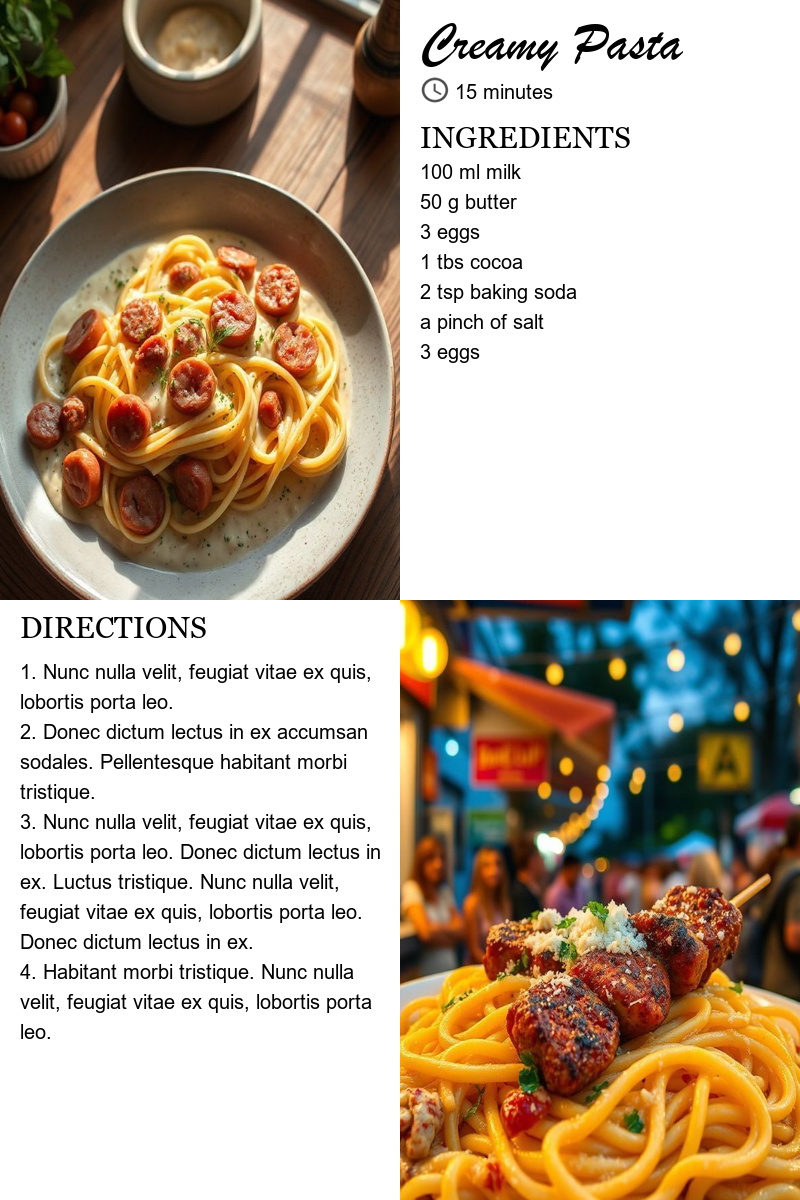
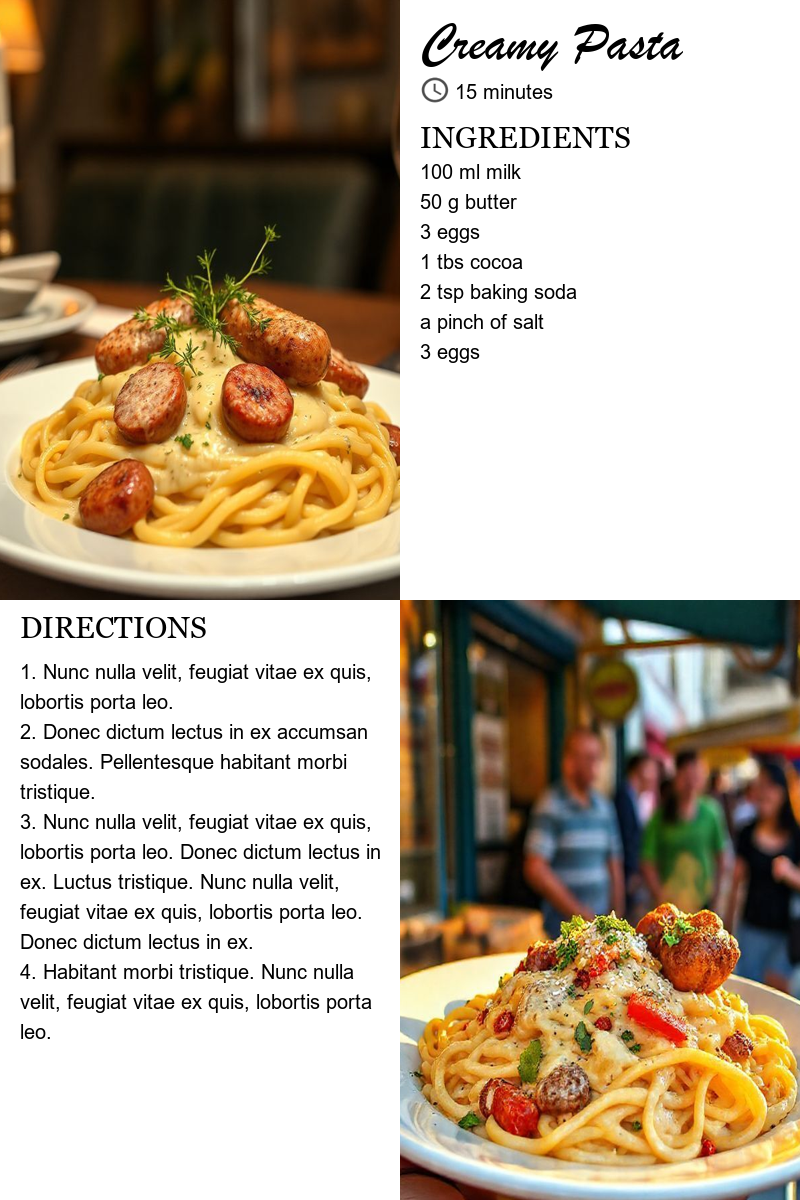
generating original images every time with a guid prompt, fixing template 2 for generated images

diff --git a/main.py b/main.py
@@ -11,6 +11,7 @@ from PIL import Image, ImageDraw, ImageFont
 import requests
 import time
 from datetime import datetime
+import uuid
 
 
 def generate_recipe_titles(writer, system_prompt):
@@ -148,13 +149,10 @@ def template_2_page_generator(image1_path, image2_path, image3_path, stopwatch_p
     margin = 10
 
     # Crop 40% from top and bottom
-    crop_height = int(image1.height * 0.32)
-    crop_width = int(image1.width * 0.1)
-    image3_crop_height = int(image3.height * 0.4)
-    image3_crop_width = int(image3.width * 0.15)
-    image1 = image1.crop((crop_width, crop_height, image1.width - crop_width, image1.height - crop_height))
-    image2 = image2.crop((crop_width, crop_height, image2.width - crop_width, image2.height - crop_height))
-    image3 = image3.crop((image3_crop_width, image3_crop_height, image3.width - image3_crop_width, image3.height - image3_crop_height))
+    # crop_height = int(image1.height * 0.2)
+    # crop_width = int(image1.width * 0.1)
+    image3_crop_height = int(image3.height * 0.8)
+    image3 = image3.crop((0, image3_crop_height, image3.width, image3.height))
     # Draw a line in the middle of the new image, leaving a bit of space from left and right
     line_margin = 65
     draw.line(
@@ -170,13 +168,13 @@ def template_2_page_generator(image1_path, image2_path, image3_path, stopwatch_p
     )
 
     # Resize images to take half of the page horizontally and vertically
-    image1 = image1.resize((image1.width // 2 - 2 * margin, image1.height // 2))
-    image2 = image2.resize((image2.width // 2 - 2 * margin, image2.height // 2))
-    image3 = image3.resize((image3.width // 2 + 80, image3.height // 2))
+    image1 = image1.resize((width // 2 - 2 * margin, height // 2))
+    image2 = image2.resize((width // 2 - 2 * margin, height // 2))
+    image3 = image3.resize((image3.width + 155, image3.height))
 
     # Paste images with margins
-    new_image.paste(image1, (margin, 0))
-    new_image.paste(image2, (width // 2 + margin, 0))
+    new_image.paste(image1, (margin, -330))
+    new_image.paste(image2, (width // 2 + margin, -330))
     new_image.paste(image3, (25, height - image3.height))
 
     # Save the final image
@@ -189,39 +187,41 @@ def generate_recipe_images_pollynation_ai(prompt, save_path):
     formatted_prompt = prompt.replace(" ", "-")
     url = f"https://image.pollinations.ai/prompt/{formatted_prompt}"
 
-    # Make the request to the API
-    response = requests.get(url)
-    if response.status_code == 200:
-        # Wait for the image to be generated
-        # time.sleep(10)  # Adjust the sleep time as needed
+    while True:
+        # Make the request to the API
+        response = requests.get(url)
+        if response.status_code == 200:
+            # Wait for the image to be generated
+            # time.sleep(10)  # Adjust the sleep time as needed
 
-        # Save the image
-        timestamp = datetime.now().strftime("%Y%m%d_%H%M%S")
-        image_save_path = save_path.replace("img_", f"img_{timestamp}_")
-        with open(image_save_path, 'wb') as f:
-            f.write(response.content)
-    else:
-        print(f"Failed to generate image. Status code: {response.status_code}")
+            # Save the image
+            timestamp = datetime.now().strftime("%Y%m%d_%H%M%S")
+            image_save_path = save_path.replace("img_", f"img_{timestamp}_")
+            with open(image_save_path, 'wb') as f:
+                f.write(response.content)
+            # Open the saved image
+            image = Image.open(image_save_path)
 
-    # Open the saved image
-    image = Image.open(image_save_path)
+            # Crop 50 pixels from the bottom
+            image = image.crop((0, 0, image.width, image.height - 48))
 
-    # Crop 50 pixels from the bottom
-    image = image.crop((0, 0, image.width, image.height - 48))
+            # Calculate the new dimensions for cropping
+            width, height = image.size
+            crop_height = int((width - 170) * 1.2)
 
-    # Calculate the new dimensions for cropping
-    width, height = image.size
-    crop_height = int((width - 170) * 1.2)
+            # Crop the image to the new dimensions
+            left = 85
+            top = (height - crop_height) / 2
+            right = width - 85
+            bottom = (height + crop_height) / 2
+            cropped_image = image.crop((left, top, right, bottom))
 
-    # Crop the image to the new dimensions
-    left = 85
-    top = (height - crop_height) / 2
-    right = width - 85
-    bottom = (height + crop_height) / 2
-    cropped_image = image.crop((left, top, right, bottom))
-
-    # Save the cropped image
-    cropped_image.save(image_save_path)
+            # Save the cropped image
+            cropped_image.save(image_save_path)
+            break
+        else:
+            print(f"Failed to generate image. Status code: {response.status_code}. Retrying...")
+            time.sleep(5)  # Wait for 5 seconds before retrying
 
 
 if __name__ == "__main__":
@@ -241,9 +241,9 @@ if __name__ == "__main__":
     #     recipe_data = json.loads(recipe_text[0])
     #     print(f"{recipe_data['name']} : {recipe_data['ingredients']}")
 
-    generate_recipe_images_pollynation_ai("Creamy Pasta with sausages from farther distance", "image1.png")
-    generate_recipe_images_pollynation_ai("Creamy Pasta with kebab in a kiosk", "image2.png")
-    generate_recipe_images_pollynation_ai("Creamy Pasta with milk a lot of milk", "image3.png")
+    generate_recipe_images_pollynation_ai(f"Creamy Pasta with sausages from farther distance {uuid.uuid4()}", "image1.png")
+    generate_recipe_images_pollynation_ai(f"Creamy Pasta with kebab in a kiosk {uuid.uuid4()}", "image2.png")
+    generate_recipe_images_pollynation_ai(f"Entire image of pasta close view nothing but pasta {uuid.uuid4()}", "image3.png")
 
 
     template_1_page_generator(
